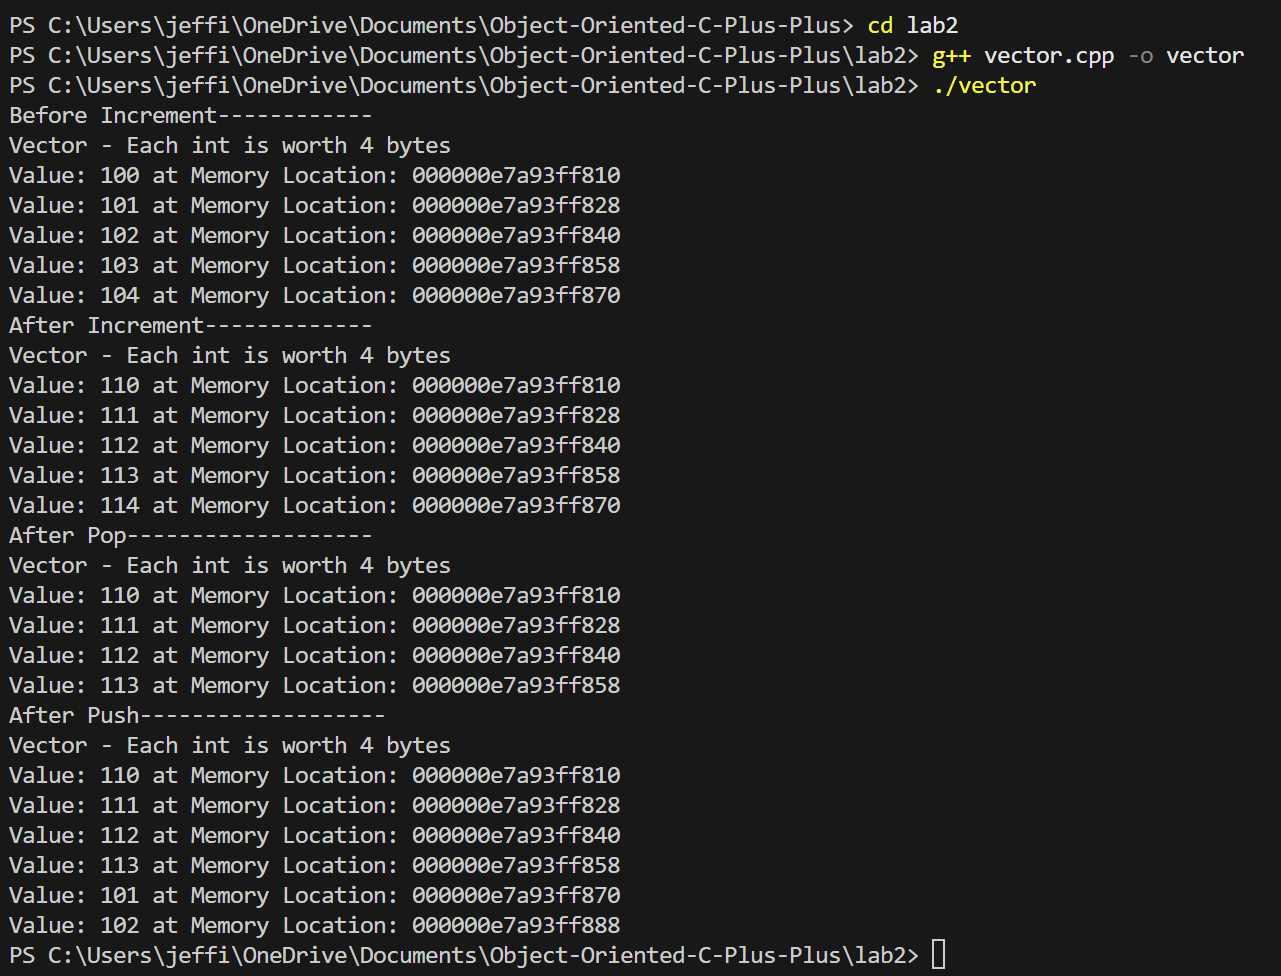
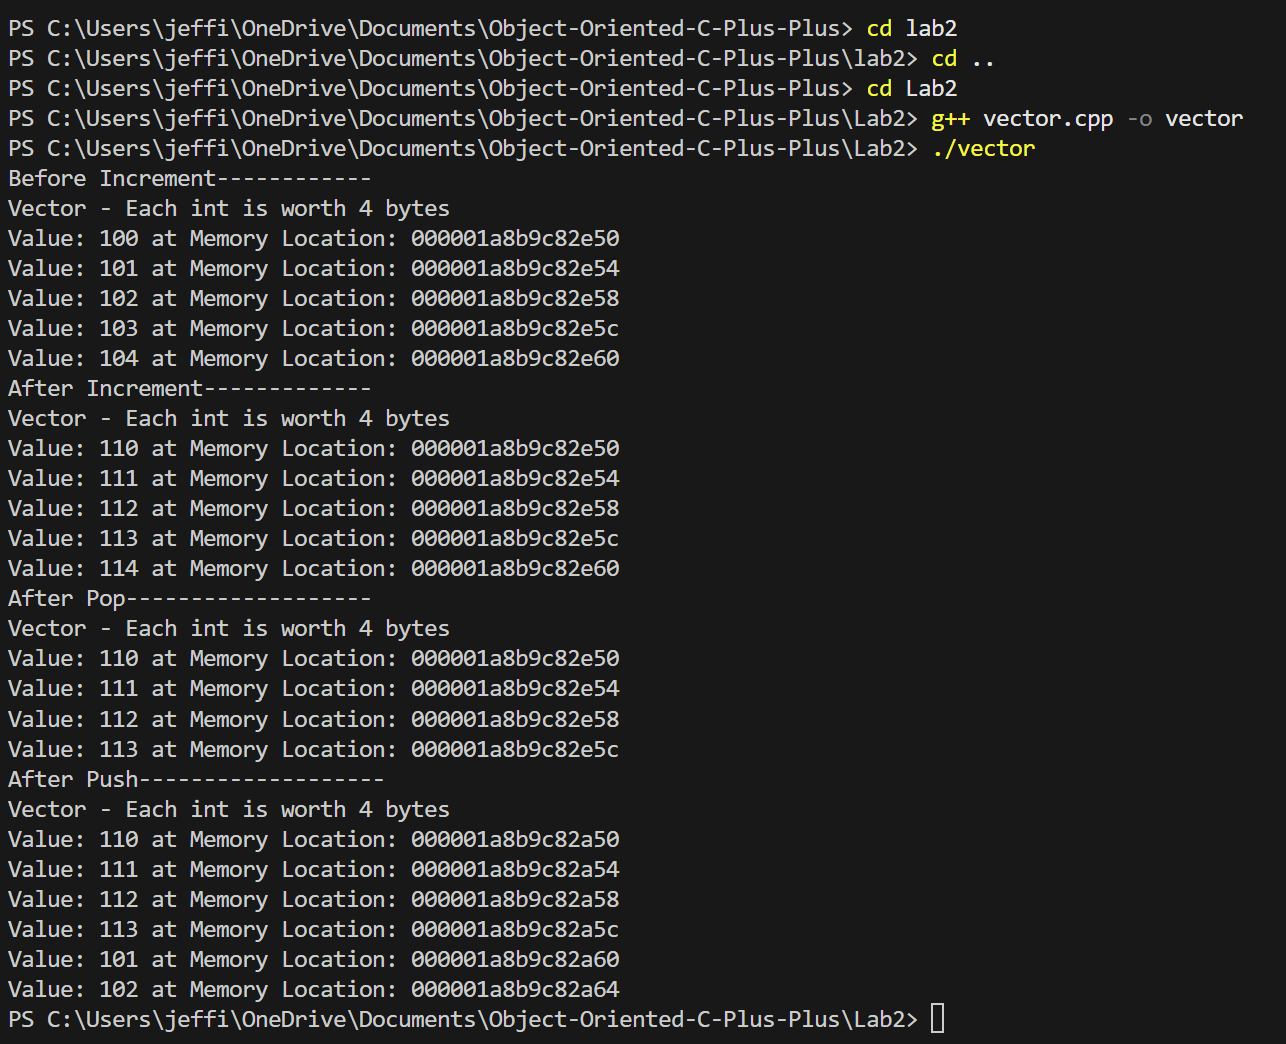
correct memory address issue

Changed region(s): [[0.0, 0.0, 0.8743, 1.0], [0.9055, 0.0922, 0.968, 0.123], [0.9055, 0.0307, 0.968, 0.0615]]

diff --git a/Lab2/vector.cpp b/Lab2/vector.cpp
@@ -12,7 +12,7 @@ using namespace std;
  void printMemVec(vector<int> &v){
     printf("Vector - Each int is worth %lu bytes\n", sizeof(v[0]));
     for(int i = 0; i < v.size(); i++){
-        printf("Value: %i at Memory Location: %p\n", v[i], &v + i);
+        printf("Value: %i at Memory Location: %p\n", v[i], &v[i]);
     }
 
  }

diff --git a/Lab2/Readme.md b/Lab2/Readme.md
@@ -4,7 +4,7 @@ Used arrays and vectors to print and alter values and their memory locations.
 
 ## Screenshot of array.cpp output
 
-![alt text](images/arrayOuput.png)
+![alt text](images/arrayOutput.png)
 
 
 ## Screenshot of vector.cpp output
